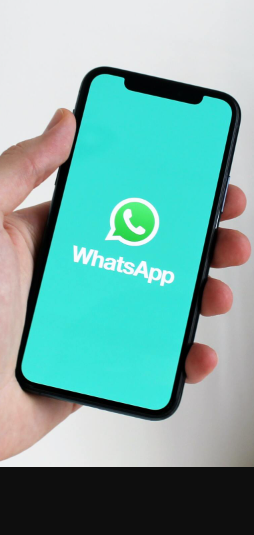
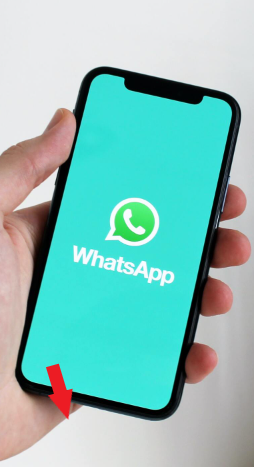
ajuste botão

diff --git a/index.html b/index.html
@@ -5,8 +5,10 @@
     <meta http-equiv="X-UA-Compatible" content="IE=edge">
     <meta name="viewport" content="width=device-width, initial-scale=1.0">
    <link rel="shortcut icon" href="favicon.ico" type="image/x-icon">
+
    <link rel="stylesheet" href="estilos/style.css">
-    <title>Projeto Redes Sociais</title>
+    
+   <title>Projeto Redes Sociais</title>
     <style>
 
     </style>
@@ -17,16 +19,15 @@
             <iframe src="home.html" name="tela" id="tela" frameborder="0"></iframe>            
 
         </section>    
-        <section id="redes-sociais">
-            <div>       
+        <section id="redes-sociais"><br><br>                     
+                <div>       
                     <a href="home.html" target="tela"> <img src="imagens/logo-home.jpg" alt="home"></a>
                     <!-- <a href="youtube.html" target="tela"> <img src="imagens/logo-youtube.jpg" alt="youtube"></a><br> -->
                     <!-- <a href="github.html" target="tela"> <img src="imagens/logo-github.jpg" alt="git-hub"></a><br> -->
                     <a href="instagram.html" target="tela"> <img src="imagens/logo-instagram.jpg" alt="instagram"></a>
                     <a href="whats.html" target="tela"> <img src="imagens/logo-whats.jpg" alt="Whats"></a>
-                    <a href="facebook.html" target="tela"> <img src="imagens/logo-facebook.jpg" alt="facebook"></a>
-            </div>
-
+                    <a href="facebook.html" target="tela"> <img src="imagens/logo-facebook.jpg" alt="facebook"></a>     
+                </div>
         </section>
     </main>
 </body>

diff --git a/estilos/style.css b/estilos/style.css
@@ -39,11 +39,11 @@ section#telefone{ /* fixa no meio da tela */
 
 iframe#tela {
     position: relative;
-    top: 81.5px;
+    top: 80.51px;
     left: 23px;
     width: 266px;
     height: 470px;
-    box-shadow: black 1px 1px 1px 1px;
+    box-shadow: rgba(0, 0, 0, 0.432) 0.5px 0.5px .5px .5px;
 }
 section#redes-sociais img{
     text-align: center;

diff --git a/whats.html b/whats.html
@@ -8,7 +8,7 @@
     <title>Whats</title>
 </head>
 <body>
-    <img src="imagens/tela-whats.png" alt="twiteer">
+    <img src="imagens/tela-whats.jpg" alt="twiteer">
     <a href="https://api.whatsapp.com/send?phone=5512991790264&text=Quero+falar+com+Studio+Depilar" target="_blank">Chama no whats!!!</a>
 </body>
 </html>
